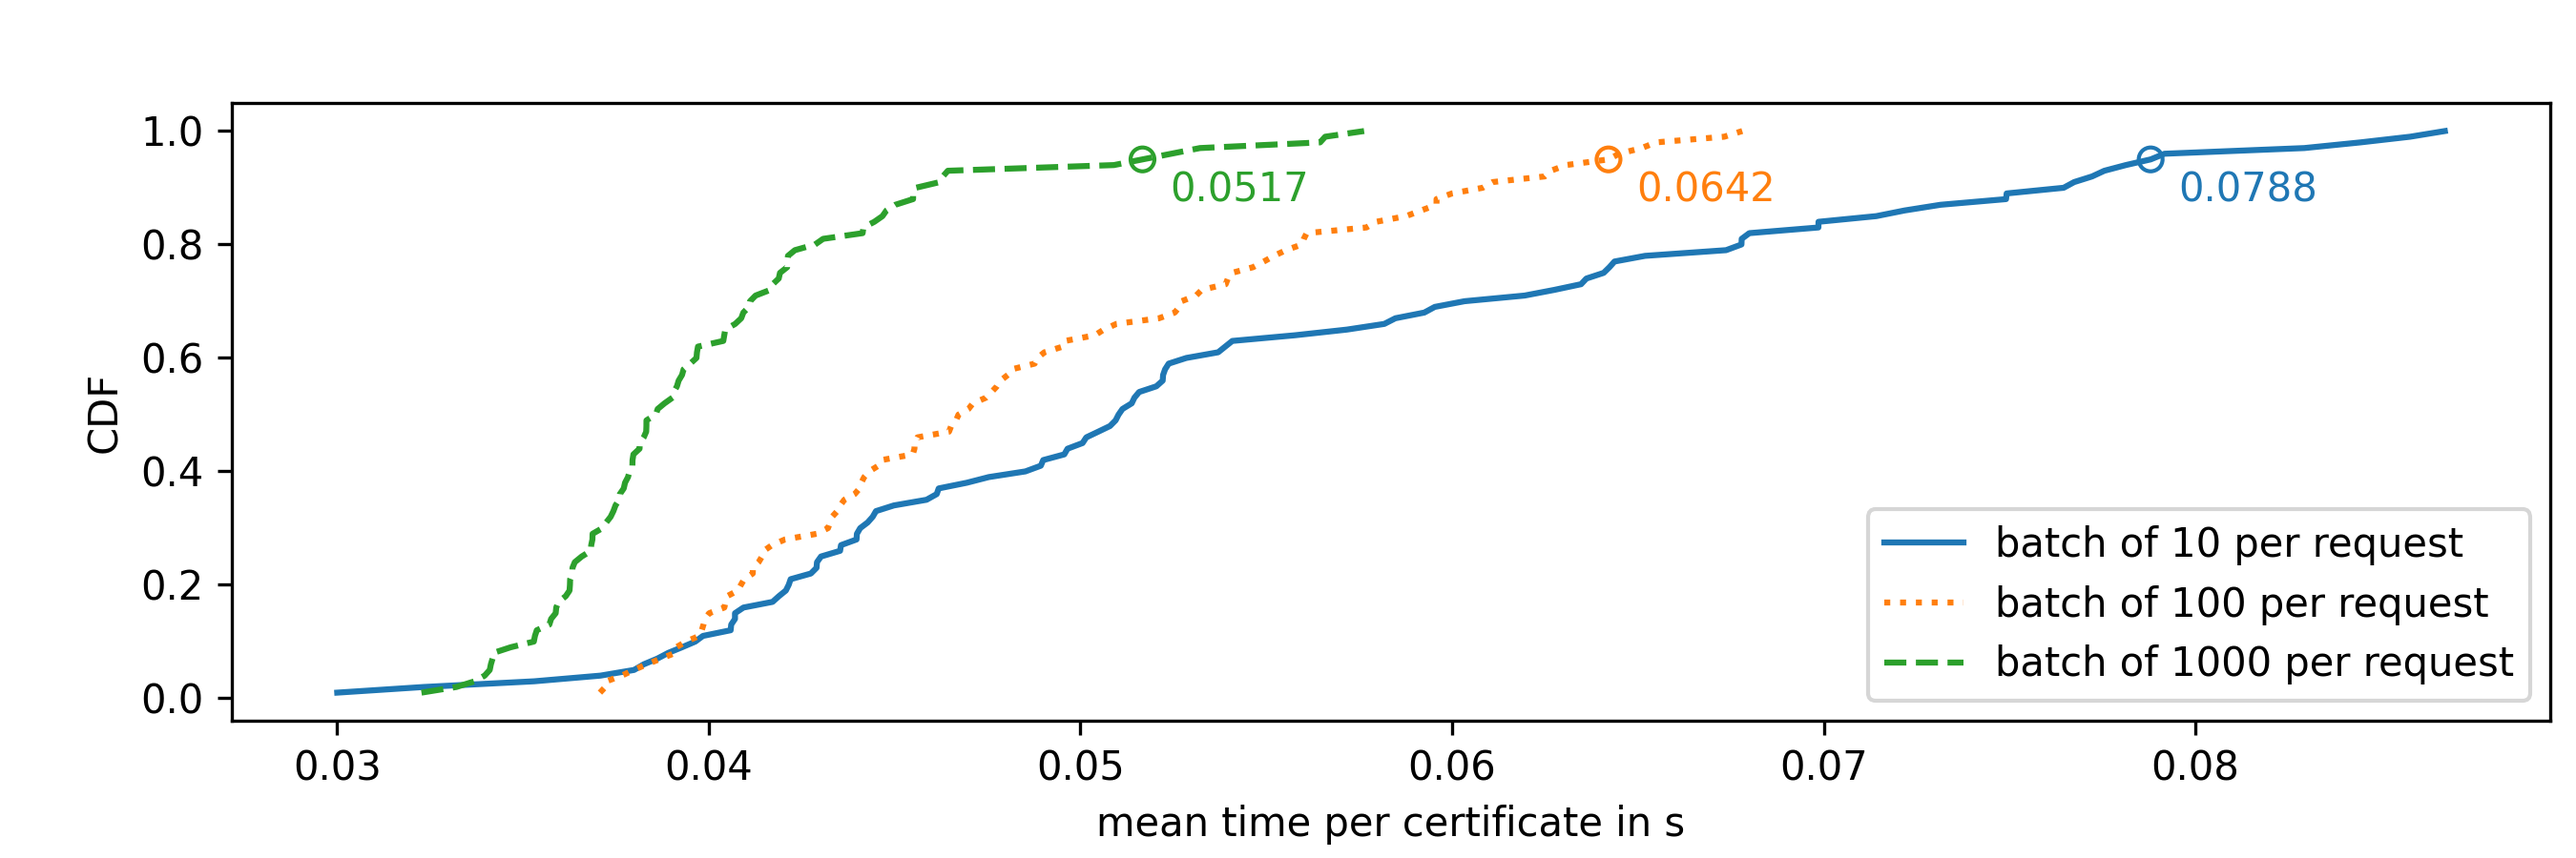
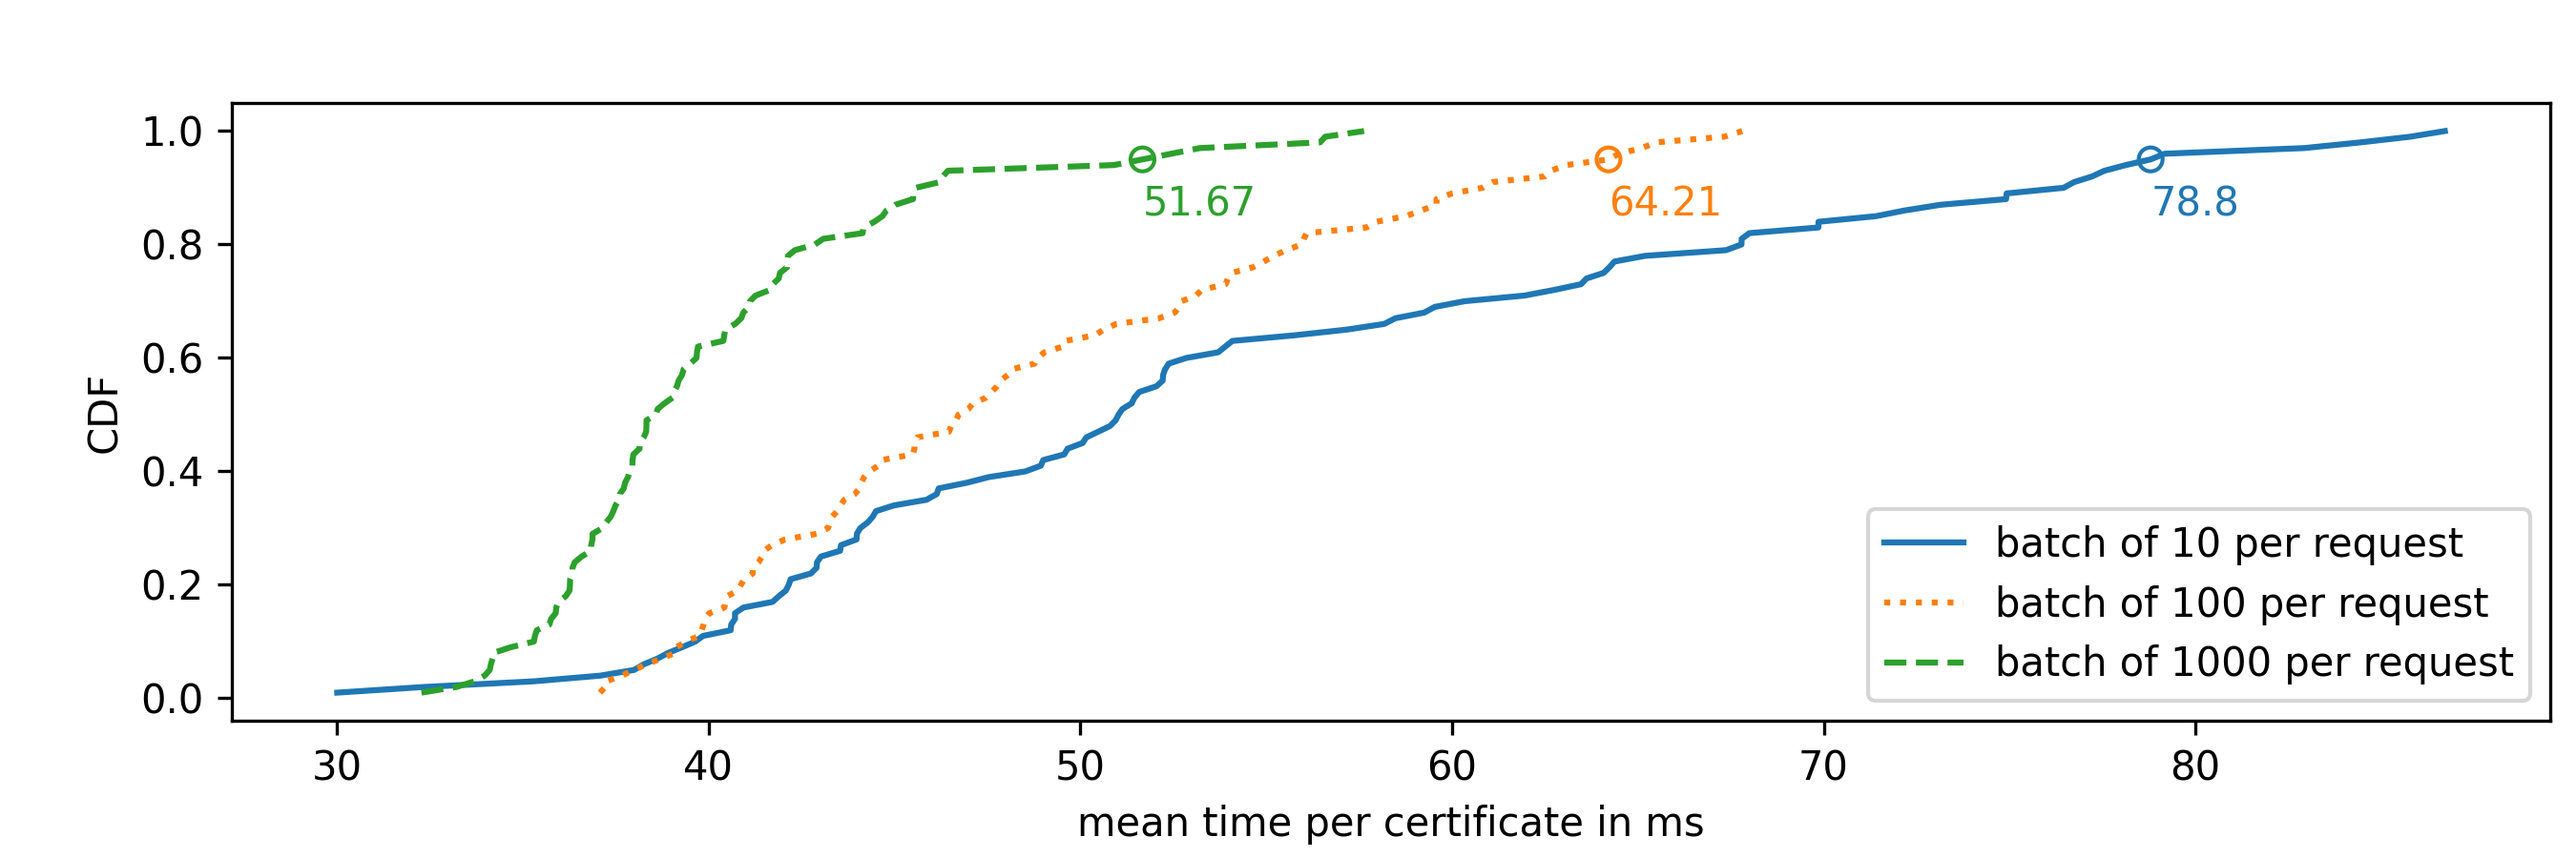
update plots

diff --git a/performance/ingestion/ingestion-plot.py b/performance/ingestion/ingestion-plot.py
@@ -13,7 +13,7 @@ def cdf_plot(
     linestyle: str,
     show_quantile=True,
     quantile_correction_factor=0.00075,
-    quantile_y=0.875
+    quantile_y=0.85
 ):
 
     # https://stackoverflow.com/a/54317197
@@ -58,7 +58,7 @@ def cdf_plot(
             ninety_five + quantile_correction_factor,
             quantile_y,
             # f'({ninety_five}, {ninety_five_p.round(2)})',
-            f'{int(ninety_five) if ninety_five.is_integer() else ninety_five.round(4)}',
+            f'{int(ninety_five) if ninety_five.is_integer() else ninety_five.round(2)}',
             rotation=0,
             color=color
         )
@@ -94,7 +94,7 @@ def main(
 
     ax.set_yscale("linear")
     ax.set_ylabel("CDF")
-    ax.set_xlabel("mean time per certificate in s")
+    ax.set_xlabel("mean time per certificate in ms")
 
     certificate_counts = df['certificate_count'].unique()
     for certificate_count, linestyle in zip(
@@ -105,7 +105,7 @@ def main(
         cdf_plot(
             f"batch of {certificate_count} per request",
             ax,
-            x['spc'],
+            x['spc'] * 1000,
             linestyle
         )
 

diff --git a/performance/client/client-performance-plot.py b/performance/client/client-performance-plot.py
@@ -124,7 +124,7 @@ def cdf_plot(
         ninety_five_p = ninety_five_row['cdf']
         ninety_five = ninety_five_row['value']
 
-        print(labels[0])
+        print(labels[1])
         print(f">= 95% of data points have a value <= {ninety_five}")
 
         if show_quantile == "circle":
@@ -268,7 +268,8 @@ def main(
         (df['time_send_receive'] / df['time_total'])
 
     # longitude,latitude,radius,request_size,request_bit_string_count,response_size,response_node_count,certificate_hash_count,consistency_proof_size,time_building_query,time_send_receive,time_verification,time_consistency,time_total
-    # print(df[df['response_node_count'] == 2539])
+    # print(df[df['response_node_count'] == 4173])
+    # print(df[df['certificate_hash_count'] == 64])
     # exit()
     assert len(df[df['certificate_hash_count'] == 0]) == 0
 
